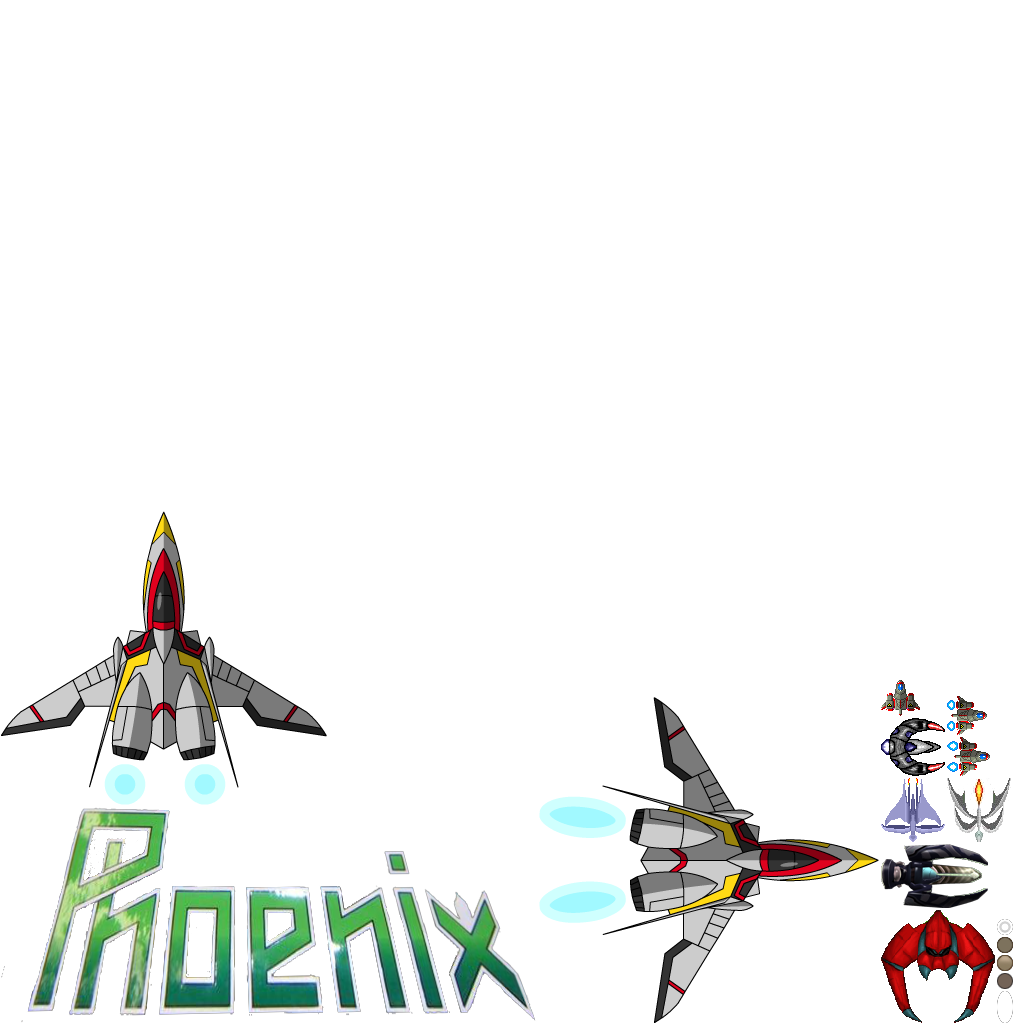
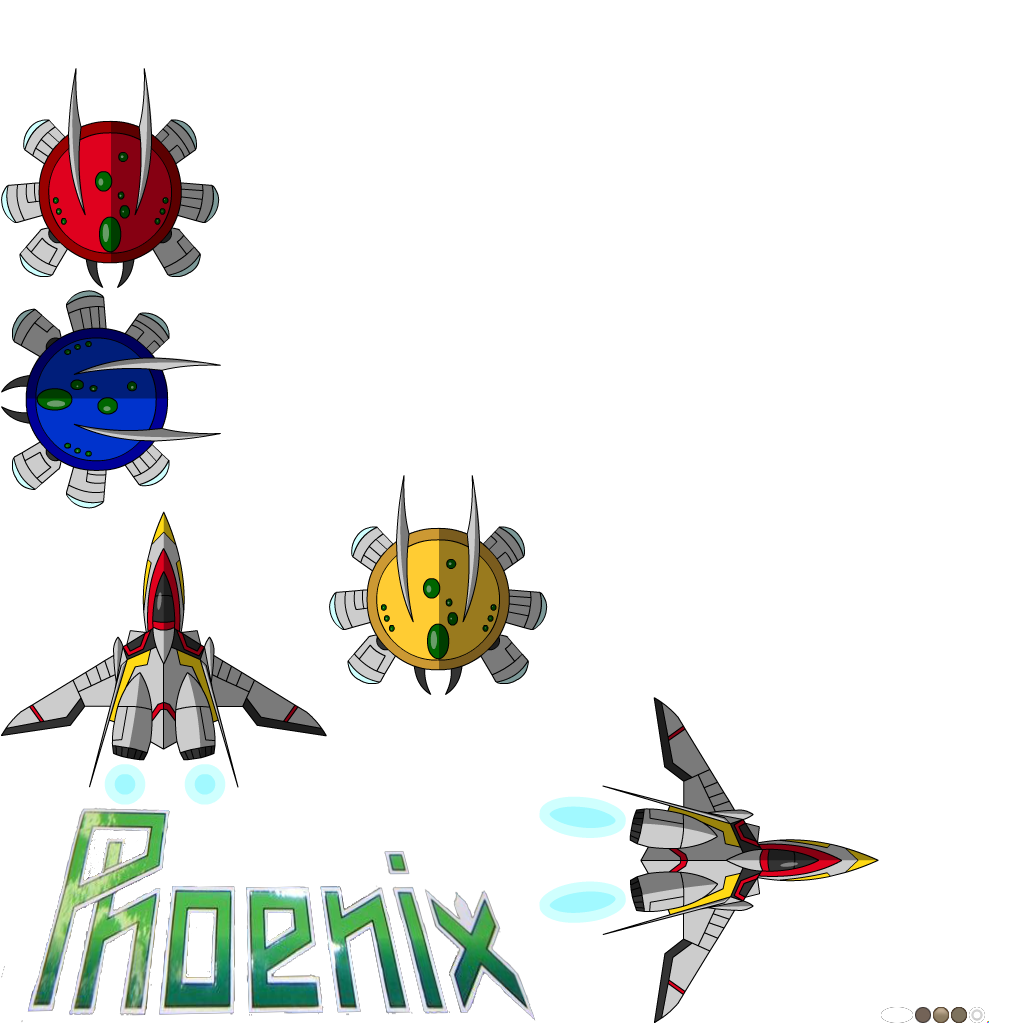
Updated the enemy assets. Perfecting the player input.
New enemies added to the atlas!  Attempting to perfect the player input
but its just not working out very well.

Changed region(s): [[0.0, 0.0625, 0.2188, 0.5], [0.8438, 0.6562, 1.0, 1.0], [0.3125, 0.4688, 0.5312, 0.6875]]

diff --git a/Scripts/PlayerController.cs b/Scripts/PlayerController.cs
@@ -25,11 +25,16 @@ public class PlayerController : MonoBehaviour {
 	void Start()
 	{
 		Health = 100.0f;
+		rigidbody.isKinematic = true;
 	}
 	
 	void TakeDamage(float damage)
 	{
 		Health -= damage;
+		if( Health <= 0 ){
+			Health = 0;
+			Notify.Post(new PlayerDeath(this));
+		}
 		GetComponent<tk2dSprite>().color = Color.Lerp(Color.red, Color.white, Health / MAX_HEALTH);
 		Notify.Post(new PlayerHealthChanged(this, Health));
 	}
@@ -38,31 +43,15 @@ public class PlayerController : MonoBehaviour {
 	// Update is called once per frame
 	void Update () 
 	{
-	
-		uForce = Vector3.zero;
-		
-		if( Input.GetButton("Fire1"))
-		{
-			Vector3 dir = Input.mousePosition - transform.position;
-			uForce = dir;
-			
+		if( rigidbody.isKinematic ){
+			KinematicControls ();
+		}
+		else {
+			PhysicsControls ();
 		}
 		
-		uForce.x += Input.GetAxis("Horizontal");
-		uForce.y += Input.GetAxis("Vertical");
-		uForce.z = 0;
-		uForce.Normalize();
 		
-		rigidbody.velocity = rigidbody.velocity * 0.9f;
-		if( uForce != Vector3.zero )
-		{
-			//Debug.Log(uForce);
-			rigidbody.AddForce(MAX_SPEED * uForce);
-		}
-		
-		if( (Input.GetButton("Fire1") && _atkSpd <= 0.0f) ||
-			(bFireAllTheTime && _atkSpd <= 0.0f))
-		{
+		if( (_atkSpd <= 0.0f) &&  (Input.GetButton("Fire1") || bFireAllTheTime)){
 			FireWeapon();
 			_atkSpd = attackSpeed;
 		}
@@ -82,9 +71,60 @@ public class PlayerController : MonoBehaviour {
 		bullet.GetComponent<Bullet>().speed = 20.0f;
 		bullet.GetComponent<Bullet>().Source = this.gameObject;
 	}
+
+	public void KinematicControls ()
+	{
+		uForce = Vector3.zero;
+		uForce.x += Input.GetAxis("Horizontal");
+		uForce.y += Input.GetAxis("Vertical");
+		
+		if( Input.GetButton("Fire1")){
+			Vector3 dir = Input.mousePosition - transform.position;
+			dir.z = 0;
+			dir.Normalize();
+			uForce = dir;
+		}
+		if( uForce != Vector3.zero ) {
+			uForce.Normalize();
+			transform.position += uForce * MAX_SPEED * Time.deltaTime;
+		}
+		
+		// TODO: Collision is breaking here because of the kinematic body maybe?
+		// I can hand write this if i need to but shouldn't unity handle it for me?
+	}
+
+	public void PhysicsControls ()
+	{
+		uForce = Vector3.zero;
+		if( Input.GetButton("Fire1")){
+			Vector3 dir = Input.mousePosition - transform.position;
+			uForce = dir;
+		}
+		
+		uForce.x += Input.GetAxis("Horizontal");
+		uForce.y += Input.GetAxis("Vertical");
+		uForce.z = 0;
+		uForce.Normalize();
+		
+		if( uForce != Vector3.zero ){
+			//Debug.Log(uForce);
+			rigidbody.AddForce(MAX_SPEED * uForce);
+		}
+		if( rigidbody.velocity.magnitude > MAX_SPEED)
+			rigidbody.velocity = Vector3.Normalize(rigidbody.velocity) * MAX_SPEED;
+	}
 }
 
-public class PlayerHealthChanged : Notification<float>
+namespace NotificationCenter
 {
-	public PlayerHealthChanged (object _Sender, float Health) : base(_Sender, Health){}
+	public class PlayerHealthChanged : Notification<float>
+	{
+		public PlayerHealthChanged (object _Sender, float Health) : base(_Sender, Health){}
+	}
+	public class PlayerDeath : AbstractNotification
+	{
+		public PlayerDeath(object _Sender) : base(_Sender, _Sender) {}
+	}
 }
+
+
